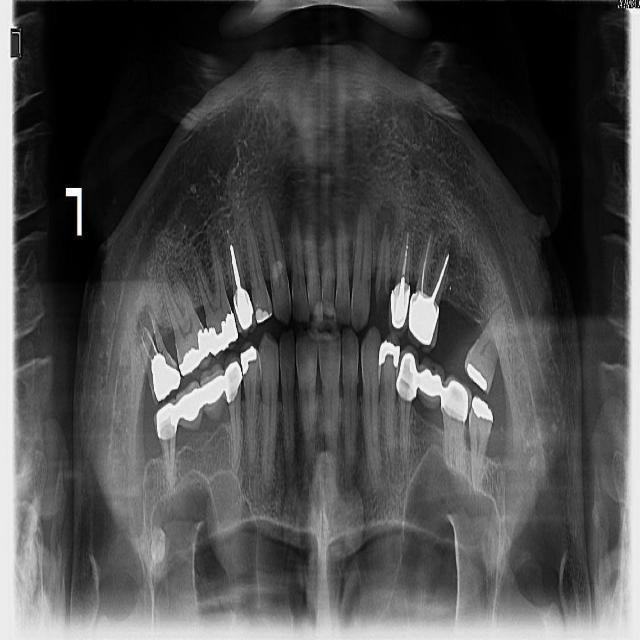
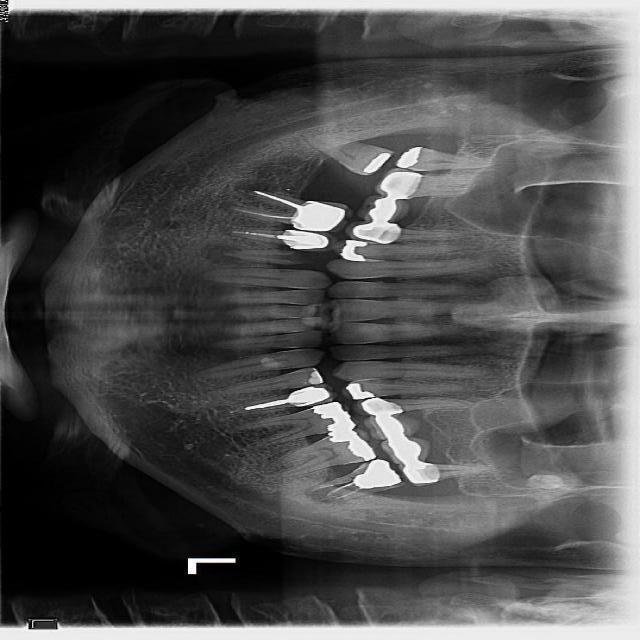
Added latest updte validation logic

diff --git a/Xora_Scan/04_Backend/modules/app.py b/Xora_Scan/04_Backend/modules/app.py
@@ -248,6 +248,9 @@ STAGE2_MODEL_PATH = os.path.join(PROJECT_ROOT, '02_Models', '01_Member', 'output
 IMAGE_SIZE = (224, 224)
 STAGE2_CLASSES = ['0_Correct', '1_Rotate_90', '2_Rotate_180', '3_Rotate_270', '4_Non_Dental']
 
+# 💡 SAFEGUARD: AI එකේ අවම විශ්වාසය (Confidence Threshold)
+CONFIDENCE_THRESHOLD = 0.55
+
 stage1_model = None
 stage2_model = None
 
@@ -300,21 +303,47 @@ def run_image_validation_pipeline(img_cv2):
     flip_prob = float(stage1_model.predict(s1_input, verbose=0)[0][0])
     is_flipped_detected = flip_prob > 0.5
 
+    print("\n" + "="*60)
+    print("🔍 [DEBUG] STAGE 1 - FLIP DETECTOR MODEL")
+    print(f"👉 Raw Flip Probability: {flip_prob:.4f}")
+    print(f"👉 Is Flip Detected? (prob > 0.5): {is_flipped_detected}")
+    print("="*60)
+
     # [STAGE 2] MAX-CONFIDENCE VOTING LOGIC
     s2_input_orig = preprocess_for_stage2(img_cv2)
     preds_orig = stage2_model.predict(s2_input_orig, verbose=0)[0]
     max_conf_orig = float(np.max(preds_orig))
     class_idx_orig = int(np.argmax(preds_orig))
     
-    flipped_img_cv2 = cv2.flip(img_cv2, 1)
+    # ⚠ FIX: cv2.flip(..., 1) කරන්නේ horizontal flip (Mirror) කිරීමටයි. 
+    # නමුත් vertical inverted (යටිකුරු) දෝෂ හඳුනාගැනීමට අවශ්ය නම් cv2.flip(..., 0) හෝ cv2.rotate(..., cv2.ROTATE_180) විය යුතුය.
+    flipped_img_cv2 = cv2.flip(img_cv2, 1) 
     s2_input_corr = preprocess_for_stage2(flipped_img_cv2)
     preds_corr = stage2_model.predict(s2_input_corr, verbose=0)[0]
     max_conf_corr = float(np.max(preds_corr))
     class_idx_corr = int(np.argmax(preds_corr))
 
+    print("\n" + "="*60)
+    print("🔍 [DEBUG] STAGE 2 - ROTATION & VALIDITY VOTING")
+    print(f"🖼  Original Image -> Class: {STAGE2_CLASSES[class_idx_orig]} (Idx: {class_idx_orig}), Conf: {max_conf_orig:.4f}")
+    print(f"🪞 Flipped Image  -> Class: {STAGE2_CLASSES[class_idx_corr]} (Idx: {class_idx_corr}), Conf: {max_conf_corr:.4f}")
+
+    # 🚨 CRITICAL FIX 1: මොඩල් එකට පින්තූරය ගැන කිසිම විශ්වාසයක් නැත්නම් (Low Confidence), බලෙන් Fix නොකර කෙලින්ම Reject කිරීම.
+    if max_conf_orig < CONFIDENCE_THRESHOLD and max_conf_corr < CONFIDENCE_THRESHOLD:
+        print("❌ [REJECTED] Model confidence is too low. Image structure is ambiguous.")
+        return {
+            "status": "Rejected",
+            "reason": "Ambiguous image structure. Low model confidence.",
+            "message": "The uploaded X-ray lacks clear structural landmarks or features. Please upload a clearer radiograph."
+        }, None
+
     strict_flip_condition = (is_flipped_detected and max_conf_corr > 0.50) or \
                             (flip_prob > 0.40 and max_conf_corr > (max_conf_orig + 0.05) and class_idx_orig != 4)
 
+    print(f"⚡ Strict Flip Condition Evaluation Result: {strict_flip_condition}")
+    print("="*60 + "\n")                        
+
+    # 🚨 CRITICAL FIX 2: Condition එක False නම්, කිසිම වෙනසක් නොකර සැබෑ ඔරිජිනල් පින්තූරයම (img_cv2) ඉදිරියට පාස් කිරීම.
     if strict_flip_condition:
         working_img = flipped_img_cv2.copy()
         detected_class_id = class_idx_corr
@@ -322,7 +351,7 @@ def run_image_validation_pipeline(img_cv2):
         is_flipped_corrected = True
         flip_note = "Horizontal Flip anomaly corrected automatically."
     else:
-        working_img = img_cv2.copy()
+        working_img = img_cv2.copy()  # මෙතනට ඔරිජිනල් පින්තූරයම ලැබෙන බව ස්ථිරයි
         detected_class_id = class_idx_orig
         confidence = max_conf_orig
         is_flipped_corrected = False
@@ -343,10 +372,12 @@ def run_image_validation_pipeline(img_cv2):
     # QUALITY ANALYSIS
     exposure, is_blurred, blur_val, quality_score = calculate_quality_metrics(working_img)
 
-    if quality_score < 40:
-        fail_reason = "Low image quality."
+    # 🚨 CRITICAL FIX 3: Quality Score එක අඩු නම් හෝ Low Confidence නම් පද්ධතියේ ආරක්ෂාව සඳහා Reject කිරීම.
+    if quality_score < 40 or confidence < CONFIDENCE_THRESHOLD:
+        fail_reason = "Low image quality or high ambiguity."
         if is_blurred: fail_reason += " Image is too blurry."
         if exposure != "Good": fail_reason += f" Lighting is {exposure}."
+        if confidence < CONFIDENCE_THRESHOLD: fail_reason += " AI confidence is insufficient."
 
         return {
             "status": "Rejected",
@@ -354,7 +385,9 @@ def run_image_validation_pipeline(img_cv2):
             "quality_score": quality_score,
             "blur_score": blur_val,
             "exposure": exposure,
-            "is_flipped_corrected": is_flipped_corrected
+            "confidence": round(confidence, 2),
+            "is_flipped_corrected": is_flipped_corrected,
+            "message": "The image quality is too poor for a safe diagnostic analysis. Please re-upload a higher quality image."
         }, None
 
     # AUTO-ROTATION LOGIC
